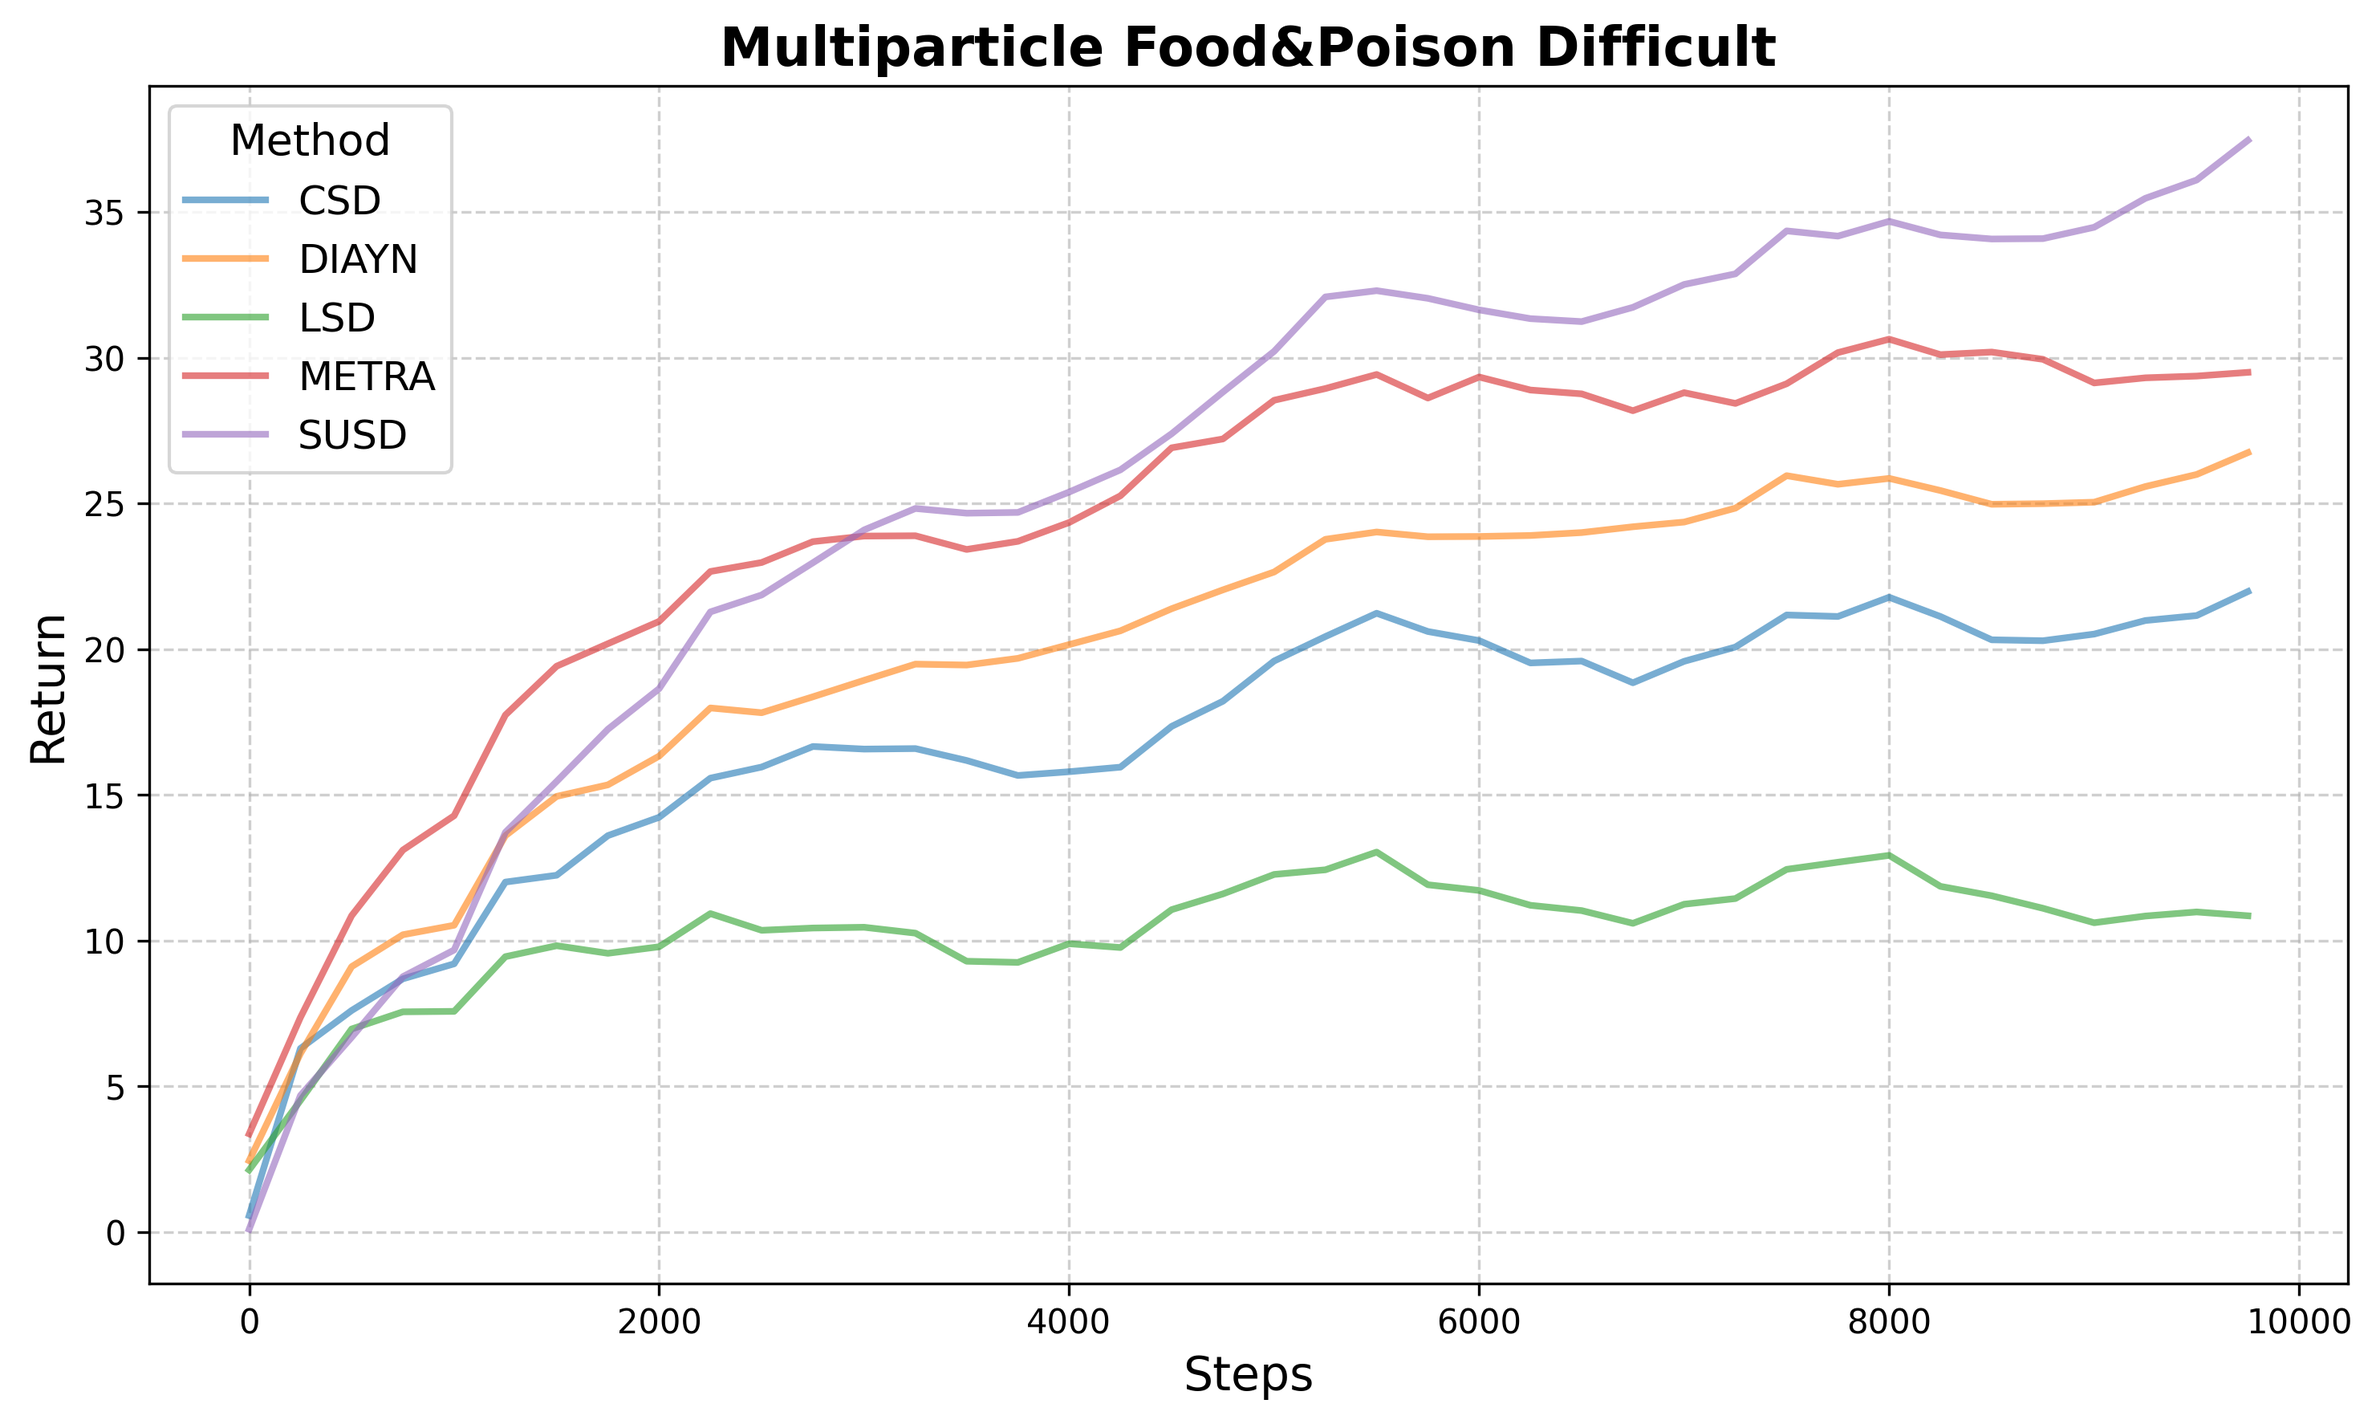
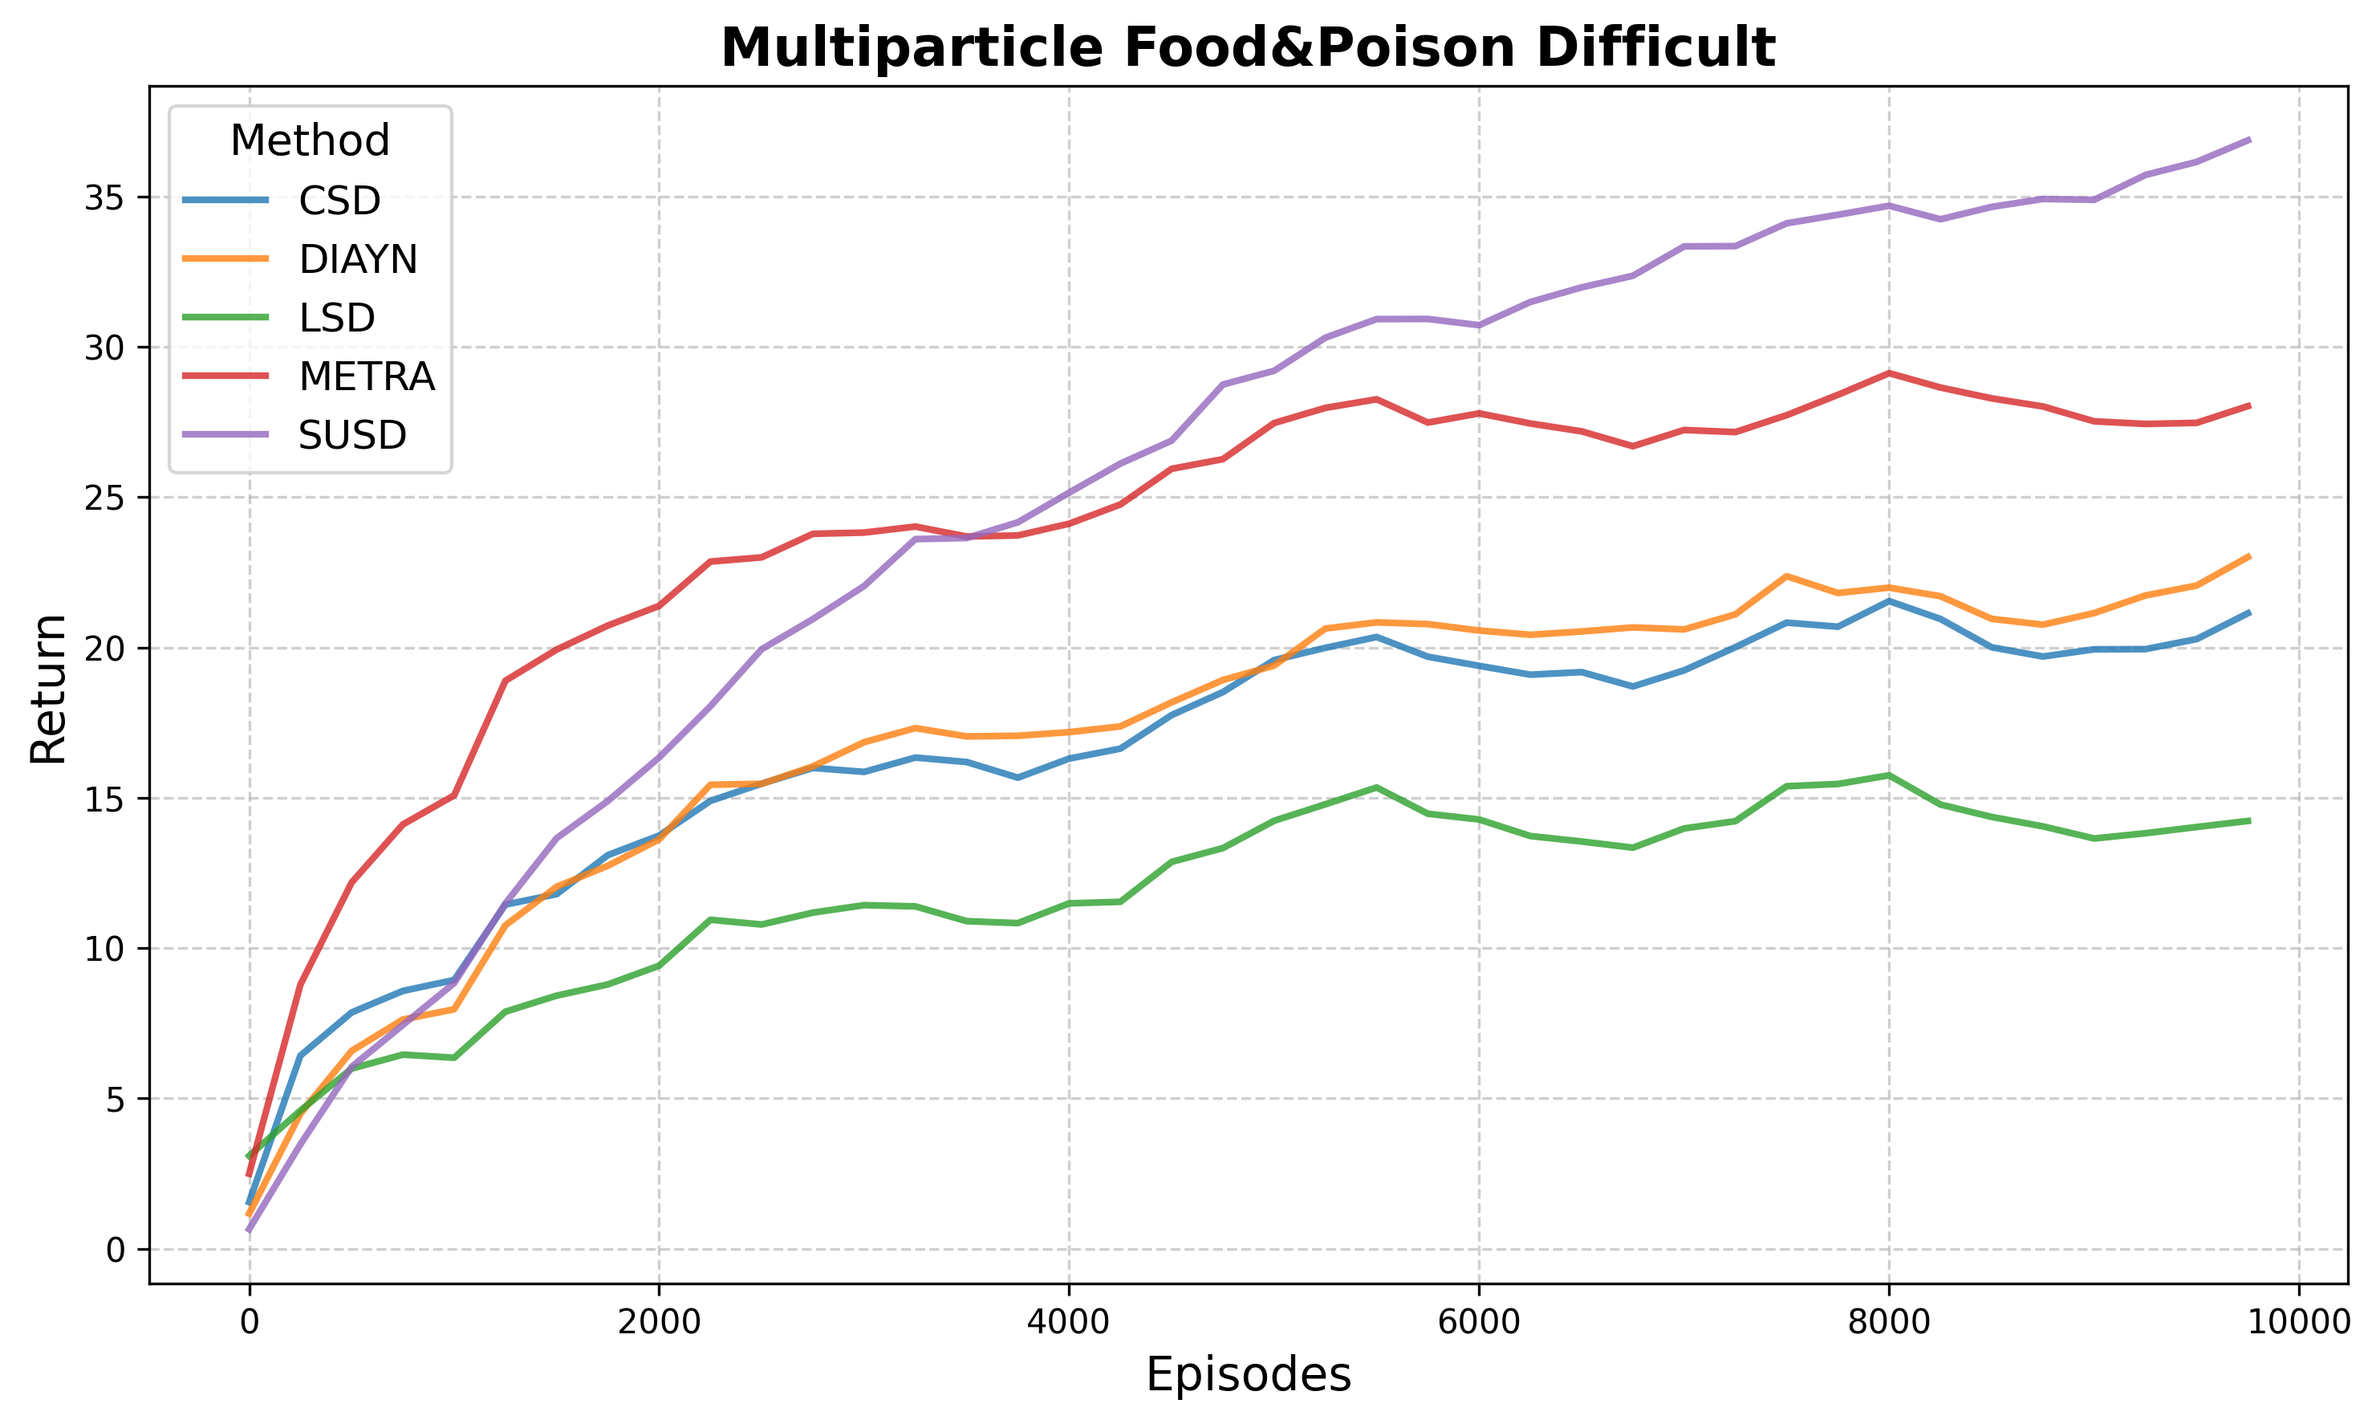
gunner downstream task add

diff --git a/src/train.py b/src/train.py
@@ -28,16 +28,20 @@ from garagei.torch.policies.policy_ex import PolicyEx
 from iod.sac import SAC
 from iod.ppo import PPO
 # from src.child_policy_env import ChildPolicyEnv
-from src.child_policy_env_particle import ChildPolicyEnv
+from src.child_policy_env_particle import ChildPolicyEnvParticle
+from src.child_policy_env_gunner import ChildPolicyEnvGunner
 from src.conf import SUSDConfig
 from src.utils import get_exp_name, get_log_dir
 from downstream_tasks.downstream_kitchen import DownstreamKitchen
+
 
 from pettingzoo.mpe import simple_heterogenous_v3
 from pettingzoo.utils.wrappers.centralized_wrapper import (CentralizedWrapper,
                                                                DownstreamCentralizedWrapper,
                                                                SequentialDSWrapper)
 from envs.mp.particle import Particle
+from envs.moma_2d.moma_2d_downstream_env import MoMa2DGymDSEnv
+from envs.moma_2d.moma_2d_gym_env import MoMa2DGymEnv
 
 
 
@@ -111,7 +115,7 @@ class SUSDHighLevelKitchenConfig(SUSDHighLevelConfig):
                 28, 29, 30, 49, 50, 51,                                           # Cabinets
                 31, 52,                                                          # Microwave
                 32, 33, 34, 35, 36, 37, 38, 53, 54, 55, 56, 57, 58               # Kettle
-        ]
+    ]
 
 
 
@@ -206,6 +210,80 @@ class SUSDHighLevelParticleConfig(SUSDHighLevelConfig):
 
 
 
+@dataclass
+class BaseHighLevelGunnerConfig(SUSDHighLevelConfig):
+    baseline: str = "CSD"
+    max_path_length: int = 500 # 10
+    dim_option: int = 2 # susd
+    downstream_task: str = "nolim" # lim: with limitation; nolim: no limitation
+    run_group: str = f"HRL_{baseline}_{downstream_task}"
+    n_parallel: int = 8 
+    traj_batch_size: int = 1 
+    num_random_trajectories: int = 100 # number of trajectories for evaluation
+    cp_multi_step: int = 5 # 5
+    algo: str = "sac"
+    n_epochs_per_eval: int = 100
+    n_epochs_per_save: int = 0
+    n_epochs_per_pt_save: int = 0
+    n_epochs_per_pkl_update: int = 0
+    n_epochs: int = 10000
+    eval_plot_axis: Optional[List[float]] = field(default_factory=lambda: [-50, 50, -50, 50])
+    trans_optimization_epochs: int = 50
+    sac_replay_buffer: int = 1
+    sac_max_buffer_size: int = 1000000
+    sac_min_buffer_size: int = 1000
+    n_epochs_per_log: int = 25
+    n_epochs_per_eval: int = 250 # 250
+    n_epochs_per_save: int = 1000 # 1000
+    n_epochs_per_pt_save: int = 1000 # 1000
+    te_only_last_frame: int  = 0
+    alpha: float = 0.1
+    cp_path: str = "final_models/gunner/CSD/option_policy10000.pt"
+    cp_unit_length: int = 1
+
+    env: str = "gunner"
+    cp_multitask: int = 0 # the number of tasks
+    custom_order = [0, 1, 2, 3, 12, 13,
+                        4, 5, 6, 7, 14, 15, 16,
+                        8, 9, 10, 11, 17] # base, arm, view
+
+@dataclass
+class SUSDHighLevelGunnerConfig(SUSDHighLevelConfig):
+    max_path_length: int = 500 # 10
+    dim_option: int = 2 # susd
+    downstream_task: str = "nolim" # lim: with limitation; nolim: no limitation
+    run_group: str = f"HRL_SUSD_{downstream_task}"
+    n_parallel: int = 8 
+    traj_batch_size: int = 1 
+    num_random_trajectories: int = 100 # number of trajectories for evaluation
+    cp_multi_step: int = 5 # 5
+    algo: str = "sac"
+    n_epochs_per_eval: int = 100
+    n_epochs_per_save: int = 0
+    n_epochs_per_pt_save: int = 0
+    n_epochs_per_pkl_update: int = 0
+    n_epochs: int = 10000
+    eval_plot_axis: Optional[List[float]] = field(default_factory=lambda: [-50, 50, -50, 50])
+    trans_optimization_epochs: int = 50
+    sac_replay_buffer: int = 1
+    sac_max_buffer_size: int = 1000000
+    sac_min_buffer_size: int = 1000
+    n_epochs_per_log: int = 25
+    n_epochs_per_eval: int = 250 # 250
+    n_epochs_per_save: int = 1000 # 1000
+    n_epochs_per_pt_save: int = 1000 # 1000
+    te_only_last_frame: int  = 0
+    alpha: float = 0.1
+    cp_path: str = "final_models/gunner/SUSD/option_policy10000.pt"
+    cp_unit_length: int = 1
+
+    env: str = "gunner"
+    cp_multitask: int = 0 # the number of tasks
+    custom_order = [0, 1, 2, 3, 12, 13,
+                        4, 5, 6, 7, 14, 15, 16,
+                        8, 9, 10, 11, 17] # base, arm, view
+
+
 def get_causal_vector(task_diff):
     if task_diff == 1: # fp - easy
         agent_list = [1, 6] 
@@ -229,14 +307,23 @@ def get_causal_vector(task_diff):
     return causal_vector, agent_list
 
 
-method = "susd_particle" # ["susd_particle", "baseline_particle"]
+# method = "susd_particle" # ["susd_particle", "baseline_particle"]
 
-if method == "susd_particle":
-    args = SUSDHighLevelParticleConfig()
-elif method == "baseline_particle":
-    args = BaselineHighLevelParticleConfig()
+# if method == "susd_particle":
+#     args = SUSDHighLevelParticleConfig()
+# elif method == "baseline_particle":
+#     args = BaselineHighLevelParticleConfig()
 
-causal_vector, agent_list = get_causal_vector(args.task_diff)
+
+method = "susd_gunner" # ["susd_gunner", "baseline_gunner"]
+
+if method == "susd_gunner":
+    args = SUSDHighLevelGunnerConfig()
+else:
+    args = BaseHighLevelGunnerConfig()
+
+if args.env == "particle":
+    causal_vector, agent_list = get_causal_vector(args.task_diff)
 
 def make_env(max_path_length):
     if args.env == "particle":
@@ -256,6 +343,10 @@ def make_env(max_path_length):
     elif args.env == "kitchen_franka":
         env =  DownstreamKitchen(tasks_to_complete=args.all_tasks, terminate_on_tasks_completed=True, render_mode="rgb_array", custom_order=args.custom_order)
 
+    elif args.env == "gunner":
+        env = MoMa2DGymEnv(max_step=1000, custom_order=args.custom_order)
+        env = MoMa2DGymDSEnv(version=args.downstream_task, show_empty=True, max_step=1000)
+
     if args.cp_path is not None:
         if not os.path.exists(args.cp_path):
             import glob
@@ -263,17 +354,27 @@ def make_env(max_path_length):
         cp_dict = torch.load(args.cp_path, map_location='cpu')
 
 
-    env = ChildPolicyEnv(
-            env,
-            cp_dict,
-            cp_action_range=1.5,
-            cp_unit_length=args.cp_unit_length,
-            cp_multi_step=args.cp_multi_step,
-            cp_num_truncate_obs=0,
-            cp_multitask=args.cp_multitask,
-            causal_vector=causal_vector,
-            downstream_task=args.downstream_task)
-    
+    if args.env == "particle":
+        env = ChildPolicyEnvParticle(
+                env,
+                cp_dict,
+                cp_action_range=1.5,
+                cp_unit_length=args.cp_unit_length,
+                cp_multi_step=args.cp_multi_step,
+                cp_num_truncate_obs=0,
+                cp_multitask=args.cp_multitask,
+                causal_vector=causal_vector,
+                downstream_task=args.downstream_task)
+        
+    elif args.env == "gunner":
+        env = ChildPolicyEnvGunner(
+                env,
+                cp_dict,
+                cp_action_range=1.5,
+                cp_unit_length=args.cp_unit_length,
+                cp_multi_step=args.cp_multi_step,
+                cp_num_truncate_obs=0,
+                cp_multitask=args.cp_multitask)
     return env
 
 
@@ -311,7 +412,10 @@ def run(ctxt=None):
         elif args.env == "particle":
             policy_q_input_dim = env.observation_space.shape[0]
             action_dim = env.action_space.shape[0]
-            
+        elif args.env == "gunner":
+            policy_q_input_dim = env.observation_space.shape[0]
+            action_dim = env.action_space.shape[0]
+
     device = torch.device('cuda' if args.use_gpu else 'cpu')
     master_dims = [args.model_master_dim] * args.model_master_num_layers
 

diff --git a/visualization/mp.py b/visualization/mp.py
@@ -1,6 +1,7 @@
 import pandas as pd
 import matplotlib.pyplot as plt
 from tbparse import SummaryReader
+import numpy as np
 
 methods = ["CSD", "METRA", "LSD", "DIAYN", "SUSD"]
 
@@ -88,25 +89,46 @@ def seq_hard(): # task_diff = 7
     seq_hard = pd.concat(all_dfs)
     return seq_hard
 
-
 def plot_result(df, save_path, title):
     plt.figure(figsize=(10,6))
 
     window = 5
     for method, group in df.groupby("method"):
-        group_sorted = group.sort_values("step")
-        smoothed = group_sorted["EvalOp/AverageDiscountedReturn"].rolling(window, min_periods=1).mean()
+        group_sorted = group.sort_values("step").copy()
+
+        # compute mean and CI for each list
+        group_sorted["mean"] = group_sorted["EvalOp/AverageDiscountedReturn"].apply(
+            lambda x: np.mean(x)
+        )
+        group_sorted["ci95"] = group_sorted["EvalOp/AverageDiscountedReturn"].apply(
+            lambda x: 1.96 * np.std(x, ddof=1) / np.sqrt(len(x)) if len(x) > 1 else 0
+        )
+
+
+        # rolling mean for smoothing
+        smoothed = group_sorted["mean"].rolling(window, min_periods=1).mean()
+        smoothed_ci = group_sorted["ci95"].rolling(window, min_periods=1).mean()
+
+        # plot line
         plt.plot(
             group_sorted["step"],
             smoothed,
             label=method,
             linewidth=2,
-            alpha=0.6
+            alpha=0.8
         )
+
+        # # plot confidence band
+        # plt.fill_between(
+        #     group_sorted["step"],
+        #     smoothed - smoothed_ci,
+        #     smoothed + smoothed_ci,
+        #     alpha=0.05
+        # )
 
     # styling
     plt.title(title, fontsize=16, weight="bold")
-    plt.xlabel("Steps", fontsize=14)
+    plt.xlabel("Episodes", fontsize=14)
     plt.ylabel("Return", fontsize=14)
 
     plt.grid(True, linestyle="--", alpha=0.6)
@@ -116,6 +138,35 @@ def plot_result(df, save_path, title):
     # save before showing
     plt.savefig(save_path, dpi=300, bbox_inches="tight")
     plt.show()
+
+
+# def plot_result(df, save_path, title):
+#     plt.figure(figsize=(10,6))
+
+#     window = 5
+#     for method, group in df.groupby("method"):
+#         group_sorted = group.sort_values("step")
+#         smoothed = group_sorted["EvalOp/AverageDiscountedReturn"].rolling(window, min_periods=1).mean()
+#         plt.plot(
+#             group_sorted["step"],
+#             smoothed,
+#             label=method,
+#             linewidth=2,
+#             alpha=0.6
+#         )
+
+#     # styling
+#     plt.title(title, fontsize=16, weight="bold")
+#     plt.xlabel("Steps", fontsize=14)
+#     plt.ylabel("Return", fontsize=14)
+
+#     plt.grid(True, linestyle="--", alpha=0.6)
+#     plt.legend(title="Method", fontsize=12, title_fontsize=13, loc="best")
+#     plt.tight_layout()
+
+#     # save before showing
+#     plt.savefig(save_path, dpi=300, bbox_inches="tight")
+#     plt.show()
 
 ### mp_fp_diff
 save_path = "visualization/vis/mp_fp_diff.png" 
@@ -129,7 +180,7 @@ mp_fp_hard = fp_hard()
 plot_result(mp_fp_hard, save_path, title="Multiparticle Food&Poison Hard")
 
 
-### mp_fp_hard
+### mp_fp_medium
 save_path = "visualization/vis/mp_fp_medium.png" 
 mp_fp_medium = fp_medium()
 plot_result(mp_fp_medium, save_path, title="Multiparticle Food&Poison Medium")
@@ -138,7 +189,6 @@ plot_result(mp_fp_medium, save_path, title="Multiparticle Food&Poison Medium")
 save_path = "visualization/vis/mp_fp_easy.png" 
 mp_fp_easy = fp_easy()
 plot_result(mp_fp_easy, save_path, title="Multiparticle Food&Poison Easy")
-
 
 ### mp seq_easy
 save_path = "visualization/vis/mp_seq_easy.png" 

diff --git a/src/child_policy_env_gunner.py b/src/child_policy_env_gunner.py
@@ -11,7 +11,7 @@ from garage.torch.distributions import TanhNormal
 from iod.utils import get_torch_concat_obs
 
 
-class ChildPolicyEnvParticle(gym.Wrapper):
+class ChildPolicyEnvGunner(gym.Wrapper):
     def __init__(
             self,
             env,
@@ -20,10 +20,8 @@ class ChildPolicyEnvParticle(gym.Wrapper):
             cp_unit_length,
             cp_multi_step,
             cp_num_truncate_obs,
-            downstream_task = "fp",
             cp_omit_obs_idxs=None,
             cp_multitask = False,
-            causal_vector=[1] * 10
     ):
         super().__init__(env)
 
@@ -32,7 +30,7 @@ class ChildPolicyEnvParticle(gym.Wrapper):
 
         self.cp_dim_action = cp_dict['dim_option']
         # self.cp_N = getattr(cp_dict, 'N', 1) # baselines
-        self.cp_N = getattr(cp_dict, 'N', 10) # susd
+        self.cp_N = getattr(cp_dict, 'N', 3) # susd
 
         
         self.cp_action_range = cp_action_range
@@ -42,8 +40,6 @@ class ChildPolicyEnvParticle(gym.Wrapper):
         self.cp_omit_obs_idxs = cp_omit_obs_idxs
         self.cp_multitask = cp_multitask
         self.cp_discrete = cp_dict['discrete']
-        self.causal_vector = causal_vector
-        self.downstream_task = downstream_task
 
         self.observation_space = self.env.observation_space
 
@@ -109,9 +105,6 @@ class ChildPolicyEnvParticle(gym.Wrapper):
             action = np.clip(action, lb, ub)
 
             observation, r, done, info = self.env.step(action, **kwargs)
-            if self.downstream_task == "fp":
-                r = r * self.causal_vector
-                r = sum(r)
 
             self.cycle_reward += r
             if self.step_count % self.cp_multi_step == 0:

diff --git a/envs/moma_2d/moma_2d_gym_env.py b/envs/moma_2d/moma_2d_gym_env.py
@@ -168,6 +168,7 @@ class MoMa2DGymEnv(MujocoTrait, gym.Env):
 		reward = self.get_reward()
 
 		observation = self.permute_state(observation)
+		observation = observation.reshape(-1) # add
 
 		coords = self.last_agent_pos
 		next_coords = self.agent_pos
@@ -209,9 +210,15 @@ class MoMa2DGymEnv(MujocoTrait, gym.Env):
 		obs = [*self.base_item, *self.arm_item, *self.view_item,
 					   *self.agent_pos, *self.arm_pos, self.gripper_location, self.view].copy()
 
+
+		
 		obs = self.permute_state(obs)
+		obs = obs.reshape(-1) # add
+		
 		self.last_obs = obs
 		self.last_agent_pos = self.agent_pos
+
+		
 
 		return obs
 

diff --git a/envs/Pettingzoo-skill/pettingzoo/utils/wrappers/centralized_wrapper.py b/envs/Pettingzoo-skill/pettingzoo/utils/wrappers/centralized_wrapper.py
@@ -175,7 +175,7 @@ class DownstreamCentralizedWrapper(CentralizedWrapper):
 			raise TypeError("Unsupported type for vec. Must be torch.Tensor, numpy.ndarray, or list.")
 
 
-	def reset(self, seed=2): # 0: pretrain seed # 1/2/3: train seed
+	def reset(self, seed=3): # 0: pretrain seed # 1/2/3: train seed
 		self._env.reset(seed)
 		self.step_count = 0.0
 		self.downstream_reset()
